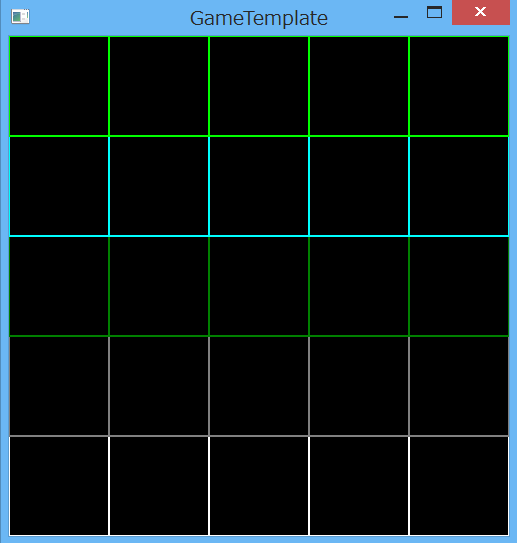
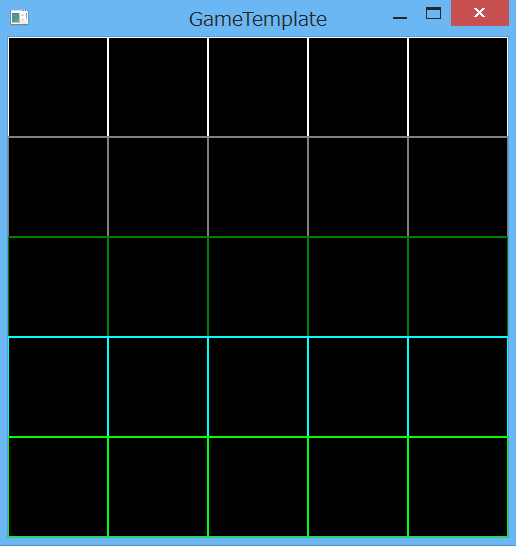
解決したけど計算式きたなすぎて納得いかんわ

Changed region(s): [[0.0, 0.0, 0.9922, 1.0], [0.8062, 0.0, 0.8682, 0.0295], [0.9612, 0.6188, 0.9922, 0.6483]]

diff --git a/MapChip/main.cpp b/MapChip/main.cpp
@@ -16,7 +16,7 @@ void drawMap(const int& map_num,
   case 0:
   {
     drawBox(map_x * chip_size - (WIDTH * 0.5f),
-            map_y * chip_size - (HEIGHT * 0.5f),
+            -map_y * chip_size + (HEIGHT * 0.5f) - chip_size,
             chip_size, chip_size,
             2,
             Color::white);
@@ -25,7 +25,7 @@ void drawMap(const int& map_num,
   case 1:
   {
     drawBox(map_x * chip_size - (WIDTH * 0.5f),
-            map_y * chip_size - (HEIGHT * 0.5f),
+            -map_y * chip_size + (HEIGHT * 0.5f) - chip_size,
             chip_size, chip_size,
             2,
             Color::gray);
@@ -34,7 +34,7 @@ void drawMap(const int& map_num,
   case 2:
   {
     drawBox(map_x * chip_size - (WIDTH * 0.5f),
-            map_y * chip_size - (HEIGHT * 0.5f),
+            -map_y * chip_size + (HEIGHT * 0.5f) - chip_size,
             chip_size, chip_size,
             2,
             Color::green);
@@ -43,7 +43,7 @@ void drawMap(const int& map_num,
   case 3:
   {
     drawBox(map_x * chip_size - (WIDTH * 0.5f),
-            map_y * chip_size - (HEIGHT * 0.5f),
+            -map_y * chip_size + (HEIGHT * 0.5f) - chip_size,
             chip_size, chip_size,
             2,
             Color::cyan);
@@ -52,7 +52,7 @@ void drawMap(const int& map_num,
   case 4:
   {
     drawBox(map_x * chip_size - (WIDTH * 0.5f),
-            map_y * chip_size - (HEIGHT * 0.5f),
+            -map_y * chip_size + (HEIGHT * 0.5f) - chip_size,
             chip_size, chip_size,
             2,
             Color::lime);
